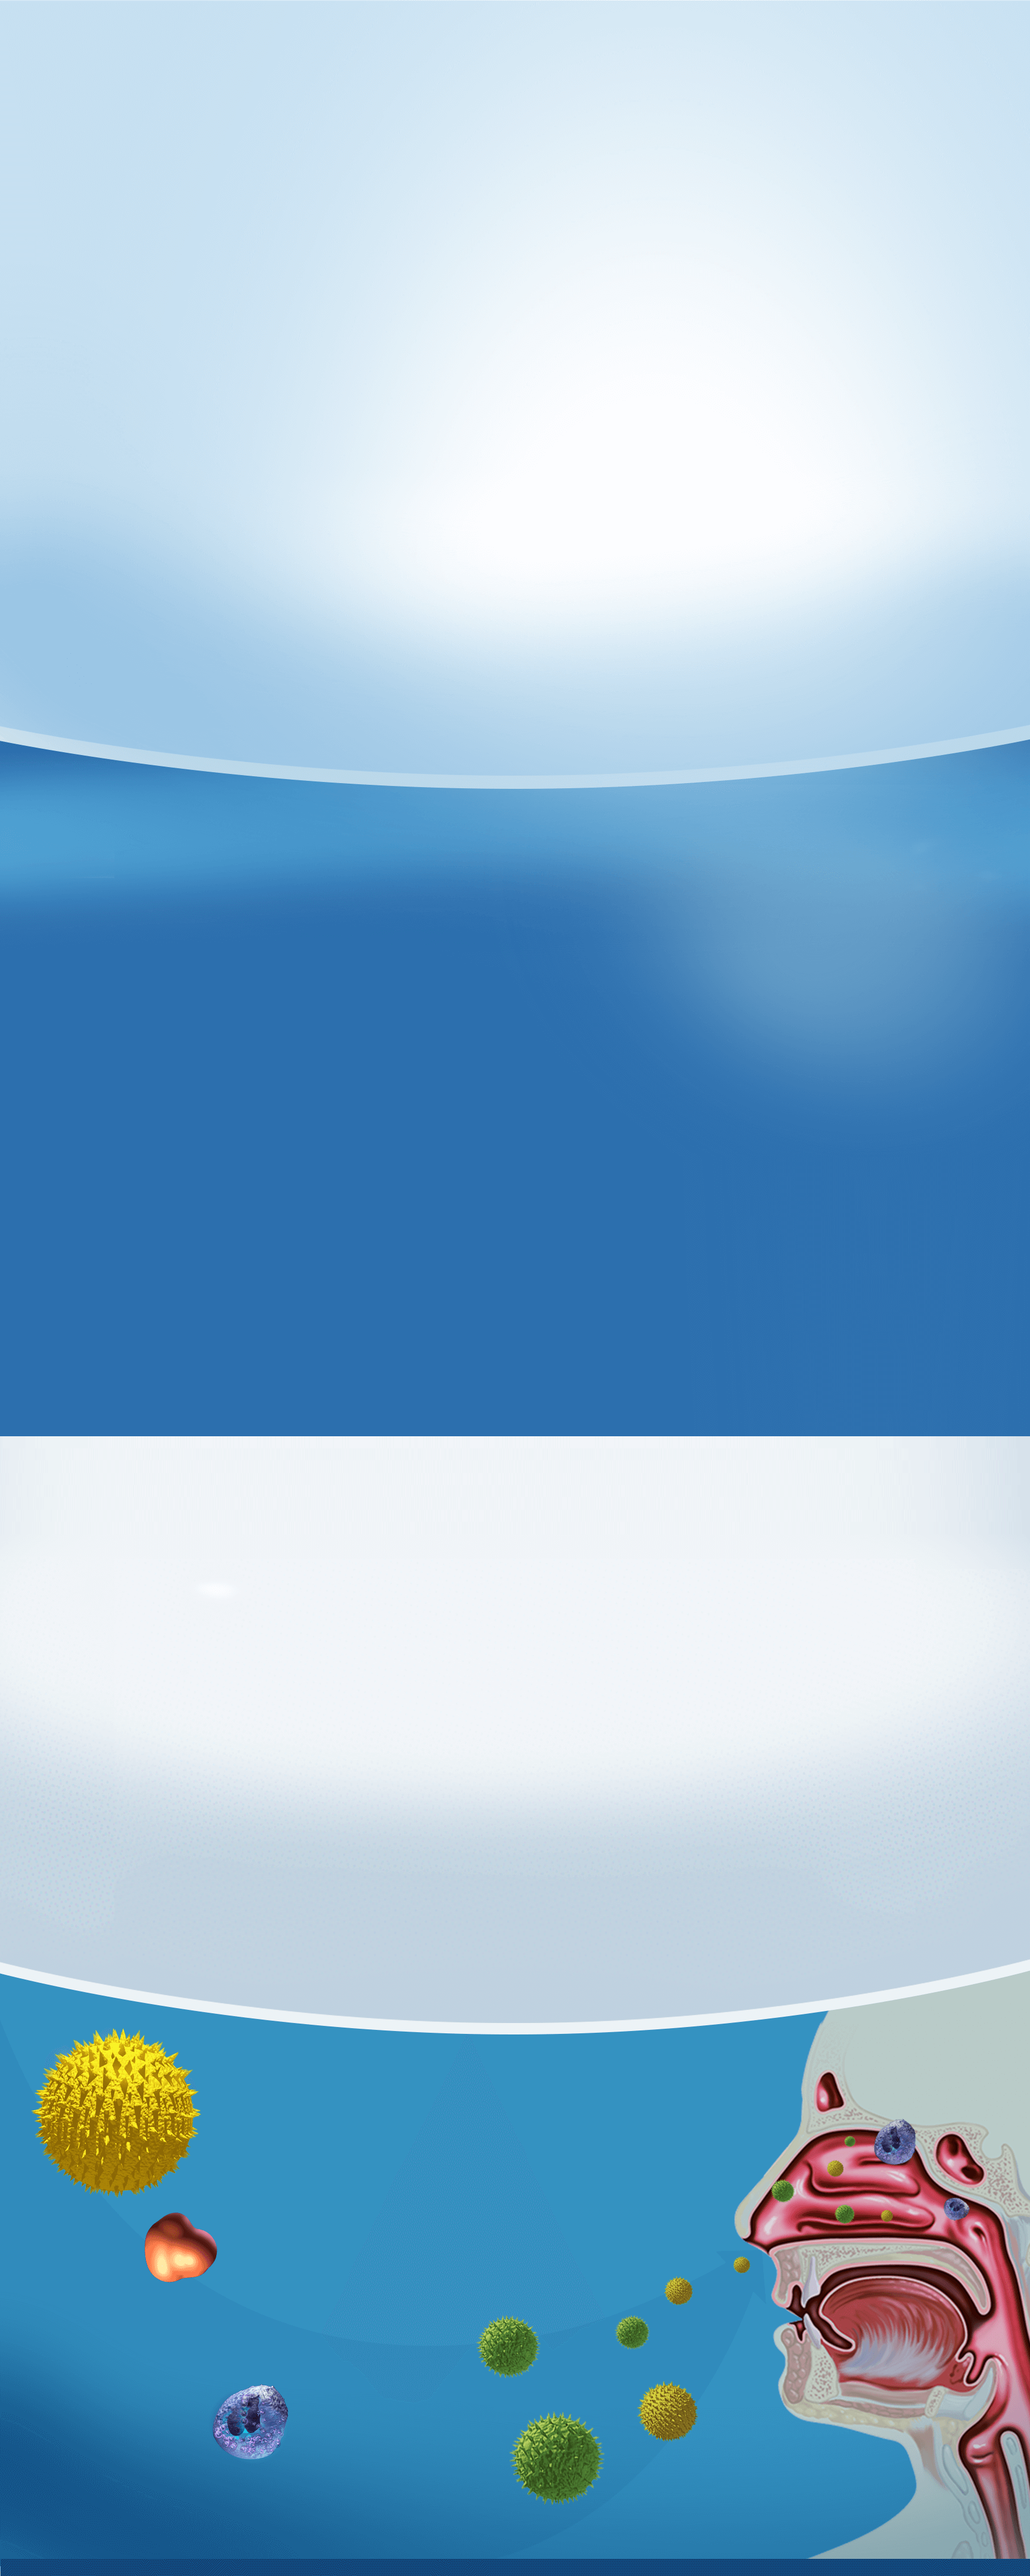
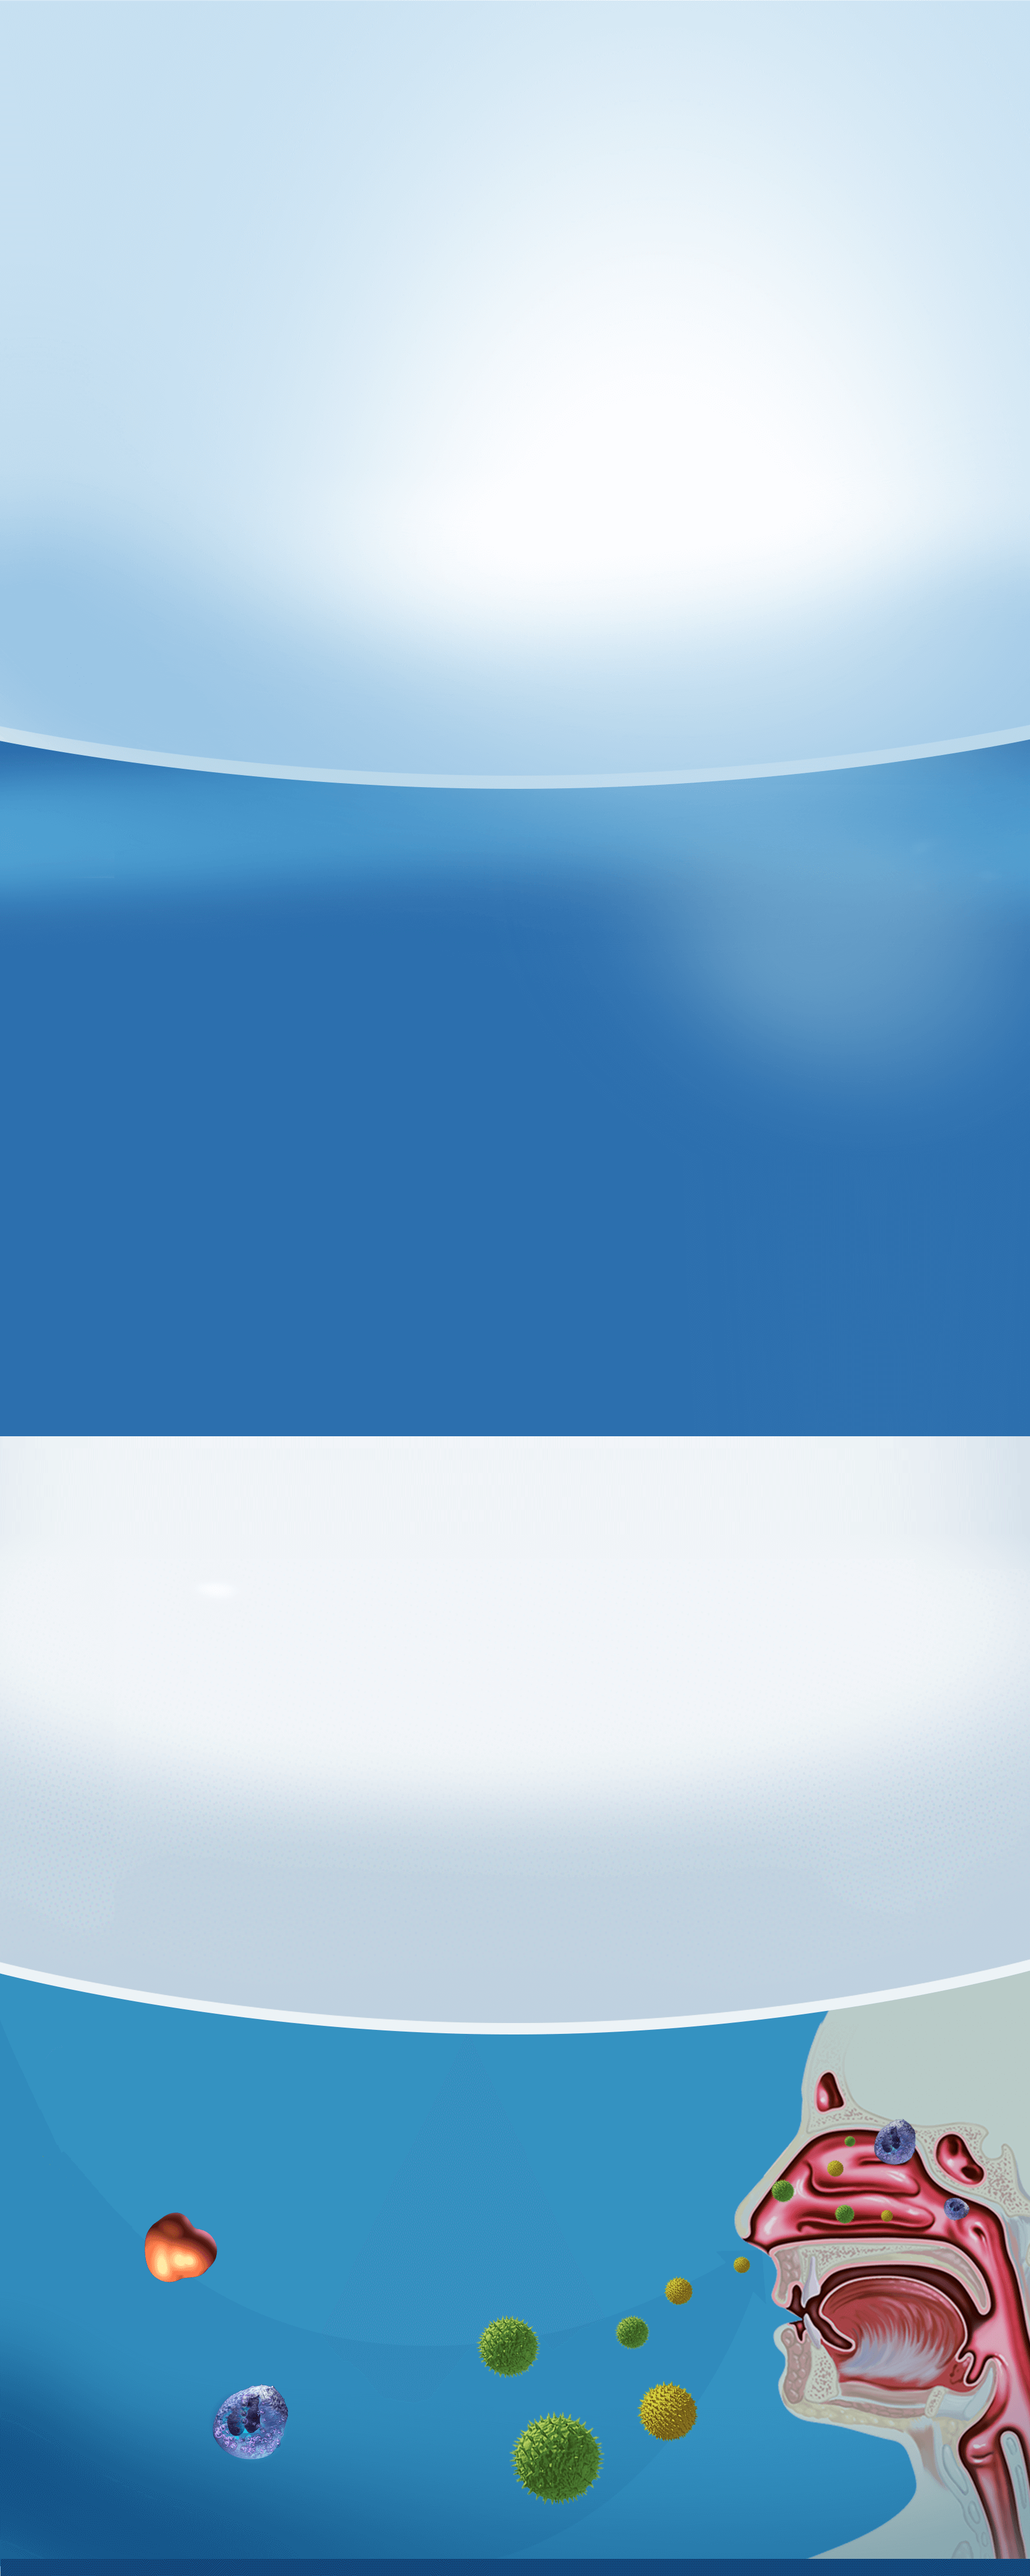
homepage header fixes

Changed region(s): [[0.0311, 0.7778, 0.1867, 0.8711]]

diff --git a/app/css/sections/_home.scss b/app/css/sections/_home.scss
@@ -7,10 +7,27 @@
 
 }
 
+//-----------------------------------------------------------------------------------------------------------------
+
+#header {
+  position: fixed;
+  width: 100%;
+}
+
 
 
 .home-section {
-    #bg-container {
+
+
+  .header .header-top ul.utility-nav {
+    margin-top: -25px; // fix for the homepage
+  }
+
+
+
+
+
+  #bg-container {
         /*background: url("../img/bg.png") no-repeat top center;*/
     }
 
@@ -198,31 +215,31 @@
 
   .separador-02 {
     height: 3500em;
-    background-color: #EA5825;
+   // background-color: #EA5825;
   }
 
 
   .separador-03 {
     height: 2300em;
-    background-color: #8d8b8b;
+  //  background-color: #8d8b8b;
   }
 
   .separador-04 {
     height: 2250em;
-    background-color: #8d8b8b;
+  //  background-color: #8d8b8b;
   }
 
 
   .separador-04 {
     height: 1600em;
-    background-color: green;
+  //  background-color: green;
   }
 
 
 
   .separador-05 {
     height: 2250em;
-    background-color: yellow;
+   // background-color: yellow;
   }
 
 
@@ -342,16 +359,15 @@
 
 
 
-  #background .yellow-spike {
-
-    position: absolute;
-    bottom: 20em;
-    width: 19%;
+  #yellow-spike {
     background: url(../img/desktop/homepage/yellow-spike.png) no-repeat right center;
     background-size: contain;
+    position: fixed;
+    width: 19.3%;
     height: 6em;
-    left: 3%;
-    z-index: 999999999;
+    left: 0;
+    z-index: 10001;
+    bottom: -43%;
   }
 
 
@@ -1043,7 +1059,7 @@
   #carousel1, #carousel2, #carousel3 {
     height: 14.7em;
     position: absolute;
-    width: 100%;
+    width: 104%;
     top: 0px;
     background-size: contain !important;
   }
@@ -1227,7 +1243,7 @@
 .ui-draggable {
   // top: 297917px !important; //slide3
   //top: 379952px !important; //slide4
-  top: 495765px !important; //slide5
+  //top: 495765px !important; //slide5
 
 
 

diff --git a/app/js/sections/homepage.js b/app/js/sections/homepage.js
@@ -76,9 +76,9 @@ $(document).ready(function() {
 
     // -----to hide the white header bar ---------------------------------------------------------------------------------------------------------------------
 
-    controller.addTween('#brandlogo-tr', TweenMax.from( $('#brandlogo'), 0.5, {css:{height: 30}}), 100);
-    controller.addTween('#brandlogo-tr', TweenMax.from( $('#slide01'), 0.5, {css:{top: 111}}), 100);
-    controller.addTween('#brandlogo-tr', TweenMax.from( $('#productbox-container'), 0.5, {css:{top: 111}}), 100);
+    controller.addTween('#brandlogo-tr', TweenMax.to( $('#header'), 0.5, {css:{top: "-29px"}}), 100);
+    //controller.addTween('#brandlogo-tr', TweenMax.from( $('#slide01'), 0.5, {css:{top: 111}}), 100);
+    //controller.addTween('#brandlogo-tr', TweenMax.from( $('#productbox-container'), 0.5, {css:{top: 111}}), 100);
 
 
 
@@ -174,6 +174,7 @@ $(document).ready(function() {
     controller.addTween('#brandlogo10', TweenMax.fromTo( $('#slide04'),                 1, {top:'0em'},         {top:'-16em'}),     25000);
     controller.addTween('#brandlogo10', TweenMax.fromTo( $('#slide05'),                 1, {marginTop:'15em'},  {marginTop:'0em'}), 30000);
     controller.addTween('#brandlogo10', TweenMax.fromTo( $('#understand-box'),          1, {left:'-140%'},      {left:'0%'}),       50000, 20000);
+    controller.addTween('#brandlogo10', TweenMax.to( $('#yellow-spike'),            1,   {bottom:'72%'}),     40000);
 
     // -----------------------------------------------------------------------------------------------------------------------------------------------
 

diff --git a/app/js/main.js b/app/js/main.js
@@ -35,11 +35,11 @@ function desktopStickyHeader(y){
 
     if ($(window).width() >= desktop_mininum_width ) { // shows or hides the sticky top nav on desktop mode
 
-        if (y > 50 && headerCollapsed===0) {
+        if (y > 300) {
             $('#header').animate({top: "-29px"}, 500);
             headerCollapsed = 1;
         } else {
-            $('#header').animate({top: "0"}, 500);
+            $('#header').animate({top: "0"}, 200);
         }
 
     }
@@ -49,8 +49,10 @@ function desktopStickyHeader(y){
 }
 
 $(window).scroll(function() {
-    // desktopStickyHeader($(this).scrollTop());
-
+    //$.doTimeout( 'scroll', 50, function(){
+    //    // do something computationally expensive
+    //    desktopStickyHeader($(this).scrollTop());
+    //});
 });
 
 
@@ -207,6 +209,7 @@ function activateFooterAndNavBarValidation()
         
     }
 }
+
 
 
 

diff --git a/app/css/global/_header.scss b/app/css/global/_header.scss
@@ -1,10 +1,7 @@
-
-//
 //#header {
 //  position: fixed;
 //  width: 100%;
 //}
-//
 
 .header {
 
